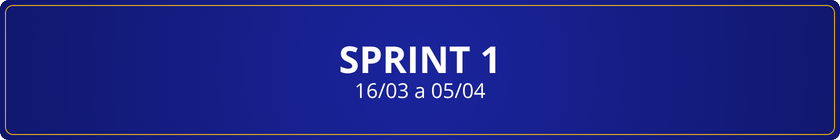
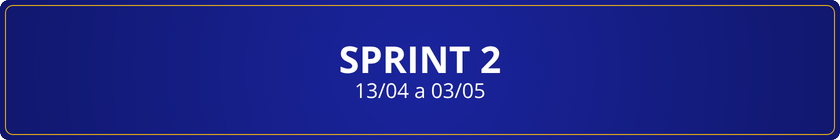
Documentação Sprint 2

Changed region(s): [[0.5571, 0.3143, 0.619, 0.5143], [0.4333, 0.6, 0.4952, 0.7143], [0.5262, 0.6, 0.5881, 0.7143]]

diff --git a/README.md b/README.md
@@ -1,4 +1,4 @@
-## 📃 Documentação da Sprint 1 <a id="topo"></a>
+## 📃 Documentação da Sprint 2 <a id="topo"></a>
 
 <img src="docs/img/banner.png" alt="Banner do Radar Cidadão" width="100%" >
 
